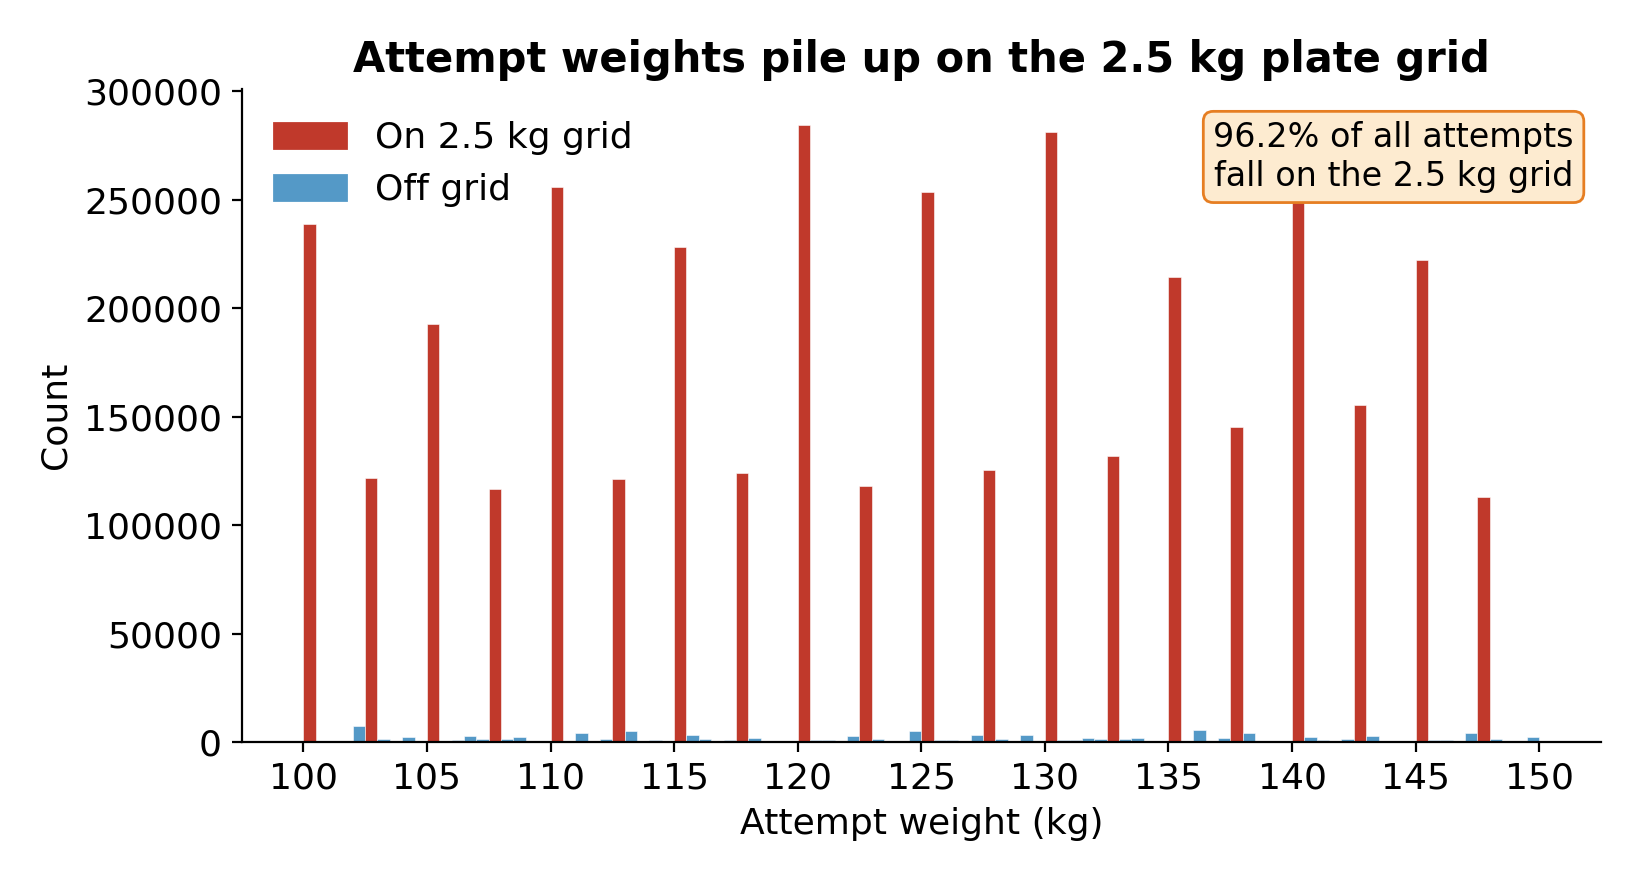
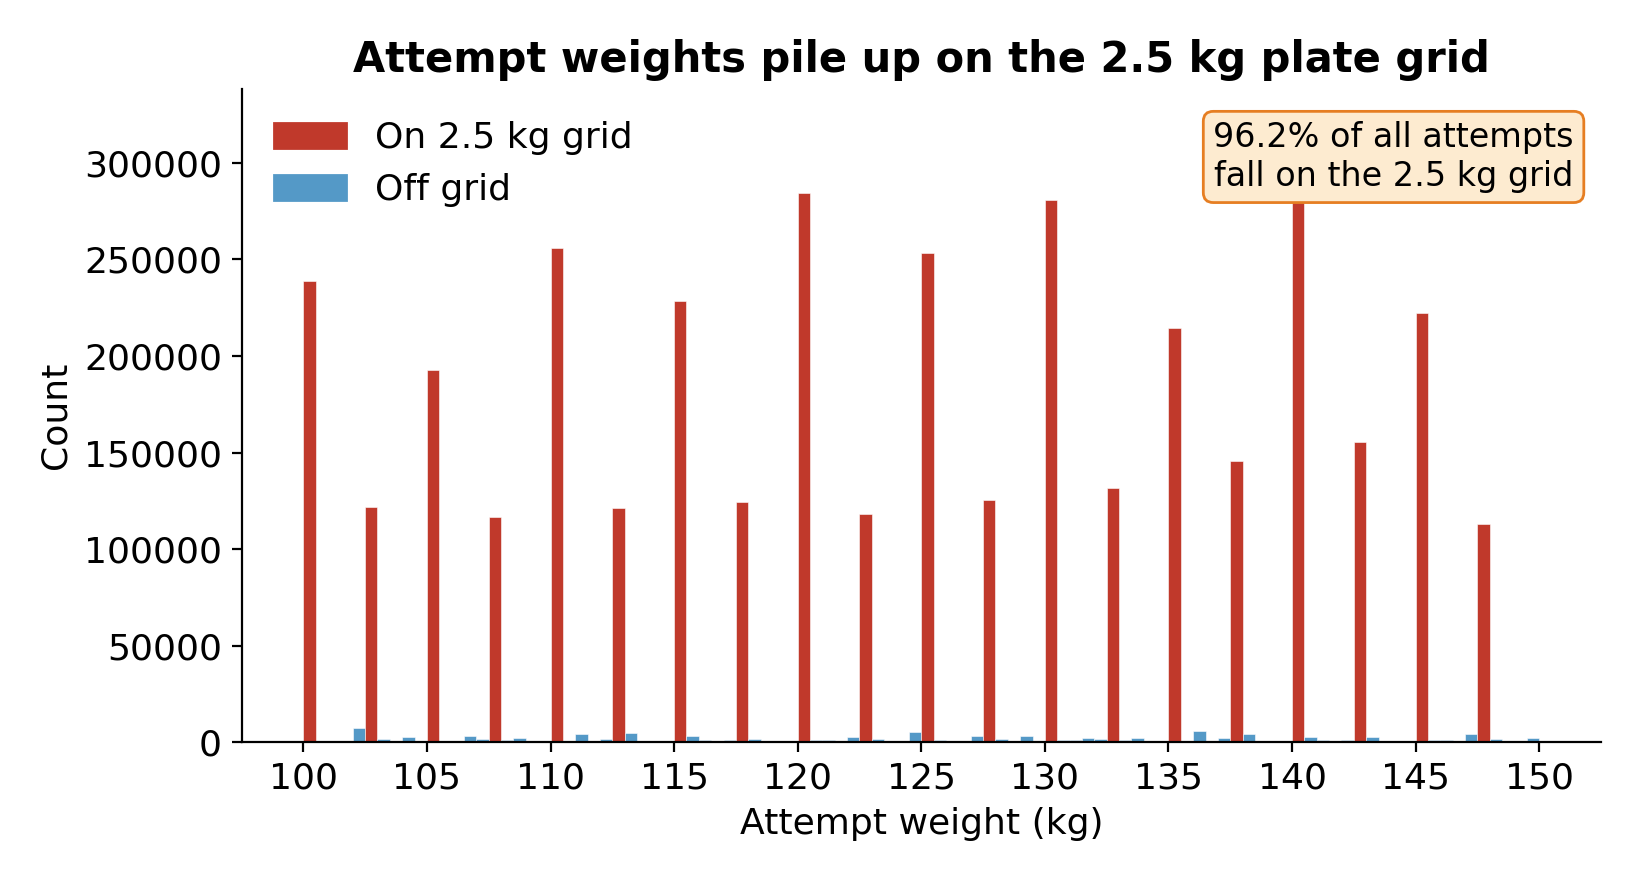
Final-gate fixes for the 28.06 mid-presentation
- Slide 2: 41 -> 42 variables (the locked CSV snapshot includes 'Sanctioned');
  gloss Total/Dots/Tested; add a data-challenges bullet (instructor's explicit ask).
- Slide 3: add the 30-second powerlifting brief the instructor requested for
  sports datasets (3 lifts, 3 attempts, bodyweight classes).
- Slide 5: 'nested' -> 'generalized (GLRT) for nested models' terminology fix.
- Slide 7: state the analysis subsample (men, IPF+USAPL); future work = formal
  McCrary only (de-heaping already applied to the +1.92).
- Slide 9: future falsification spelled out (placebos, dose-response).
- fig_quantization: y-axis headroom so the annotation box no longer occludes
  the tallest (140 kg) bar.

diff --git a/src/make_deck.py b/src/make_deck.py
@@ -84,13 +84,15 @@ line(tf, "תאוריה סטטיסטית · פרויקט סוף - מצגת אמצ
 # ---- Slide 2: research data ----
 content("נתוני המחקר", [
     "מקור: OpenPowerlifting - מאגר פתוח של תוצאות תחרויות הרמת-כוח (רישיון CC0).",
-    "היקף: כ-3.94 מיליון תוצאות (שורה לכל מתחרה בכל תחרות), 41 משתנים.",
-    "משתנים: רציפים - משקל-גוף, משקלי-ניסיון, Total, Dots; קטגוריים - מין, ציוד, פדרציה, מקטע-משקל, Tested.",
+    "היקף: כ-3.94 מיליון תוצאות (שורה לכל מתחרה בכל תחרות), 42 משתנים.",
+    "משתנים: רציפים - משקל-גוף, משקלי-ניסיון, Total (סכום שלוש ההרמות), Dots (ציון כוח מנורמל); קטגוריים - מין, ציוד, פדרציה, מקטע-משקל, Tested (תחרות עם בדיקות סמים).",
+    "אתגרים בדאטה: אותו מתחרה מופיע בתחרויות רבות (תלות בין שורות), הבדלי סכמות בין פדרציות, והמרות lb→kg.",
     "הנתונים כבר הורדו ועובדו - כל המספרים בהמשך הם תוצאות אמת ראשוניות.",
 ])
 
 # ---- Slide 3: overview ----
 content("עיקרי העבודה", [
+    "רקע קצר: בהרמת-כוח שלוש הרמות (סקוואט, בנץ'-פרס, דדליפט), שלושה ניסיונות לכל הרמה, והתחרות נערכת בתוך מקטעי משקל-גוף.",
     "מתחרה שולט בשני מספרים בלבד: המשקל על המוט (בחירת הניסיונות) ומשקל הגוף (בשקילה).",
     'אנחנו בוחנים איך הוא "משחק" עם שניהם - ומה ניתן ללמוד מכך על גבולות הכוח באוכלוסיית המתחרים.',
 ], lead="הרעיון: שני המספרים שהמתחרה שולט בהם - והמחיר שהוא משלם עליהם")
@@ -107,7 +109,7 @@ content("שאלת החקר", [
 
 # ---- Slide 5: methods ----
 content("שיטות המחקר", [
-    "H1 (רשת המשקלים): מודל נראות עם עיגול-רשת (rounded-likelihood MLE) + מבחן יחס-נראות מקונן (GLRT).",
+    "H1 (רשת המשקלים): מודל נראות עם עיגול-רשת (rounded-likelihood MLE) + מבחן יחס-נראות מוכלל (GLRT) למודלים מקוננים.",
     'H2 (חיתוך-משקל): מבחן אי-רציפות-צפיפות (McCrary) סביב הסף + בדיקות הפרכה - פלצבו, de-heaping, ומינון-תגובה.',
     "כלים תומכים: רגרסיה אלומטרית (מבחן Wald), מתאמים, וערכי-קיצון (EVT).",
     'דגש: בגלל n≈3.9M כמעט הכל "מובהק" - לכן מובילים בגודל-אפקט וברווח-סמך, לא ב-p.',
@@ -120,7 +122,7 @@ fig_slide('תוצאות ראשוניות (1): רשת ה-2.5 ק"ג',
 
 # ---- Slide 7: results (2) - weight-cutting ----
 fig_slide("תוצאות ראשוניות (2): חיתוך-משקל",
-          'מתחת לסף 83 ק"ג (מחלקת IPF) הצטברות בולטת (יחס-לוג +1.92, שורד ניקוי מספרים-עגולים); בנקודת-בקרה שאינה סף (91 ק"ג) אין עודף (≈ -0.21). אינדיקציה ראשונית לחיתוך-משקל; אישוש פורמלי (McCrary, de-heaping) בהמשך.',
+          'מתחת לסף 83 ק"ג (מחלקת IPF; גברים, IPF+USAPL) הצטברות בולטת (יחס-לוג +1.92, שורד ניקוי מספרים-עגולים); בנקודת-בקרה שאינה סף (91 ק"ג) אין עודף (≈ -0.21). אינדיקציה ראשונית לחיתוך-משקל; מבחן McCrary פורמלי בהמשך.',
           "fig_bunching.png", 9.6/4.3, 11.0)
 
 # ---- Slide 8: extra results - allometry ----
@@ -134,7 +136,7 @@ tf = textbox(s, LEFT, 1.75, BODYW, 5.3)
 bullets = [
     'שני המספרים שהמתחרה שולט בהם נראים בבירור: רשת ה-2.5 ק"ג (המוט), והצטברות מתחת לספים (משקל גוף).',
     "ההצטברות מתחת לסף שורדת ניקוי-עיגול ונעדרת בנקודת-בקרה - אינדיקציה ראשונית מעודדת (טרם מבוססת).",
-    "הצעדים הבאים: מבחן McCrary פורמלי + de-heaping, מבנה התפלגות הכוח, ואומדן תקרת-כוח (EVT).",
+    "הצעדים הבאים: מבחן McCrary פורמלי + בדיקות הפרכה מלאות (פלצבו, מינון-תגובה), מבנה התפלגות הכוח, ואומדן תקרת-כוח (EVT).",
     "כל התוצאות יוצגו עם גודל-אפקט, רווחי-סמך, ותיקון לבדיקות מרובות.",
 ]
 for i, b in enumerate(bullets):

diff --git a/src/make_figures.py b/src/make_figures.py
@@ -57,6 +57,7 @@ sub = att[(att >= lo) & (att < hi)]
 counts, edges, patches = ax.hist(sub, bins=bins, edgecolor="white", linewidth=0.2)
 for c_edge, p in zip(edges[:-1], patches):
     p.set_facecolor(C_GRID if abs(c_edge/2.5 - round(c_edge/2.5)) < 1e-6 else C_OFF)
+ax.set_ylim(0, counts.max()*1.18)   # headroom so the annotation box clears the tallest bar
 ax.xaxis.set_major_locator(MultipleLocator(5))
 ax.set_xlabel("Attempt weight (kg)"); ax.set_ylabel("Count")
 ax.set_title("Attempt weights pile up on the 2.5 kg plate grid")